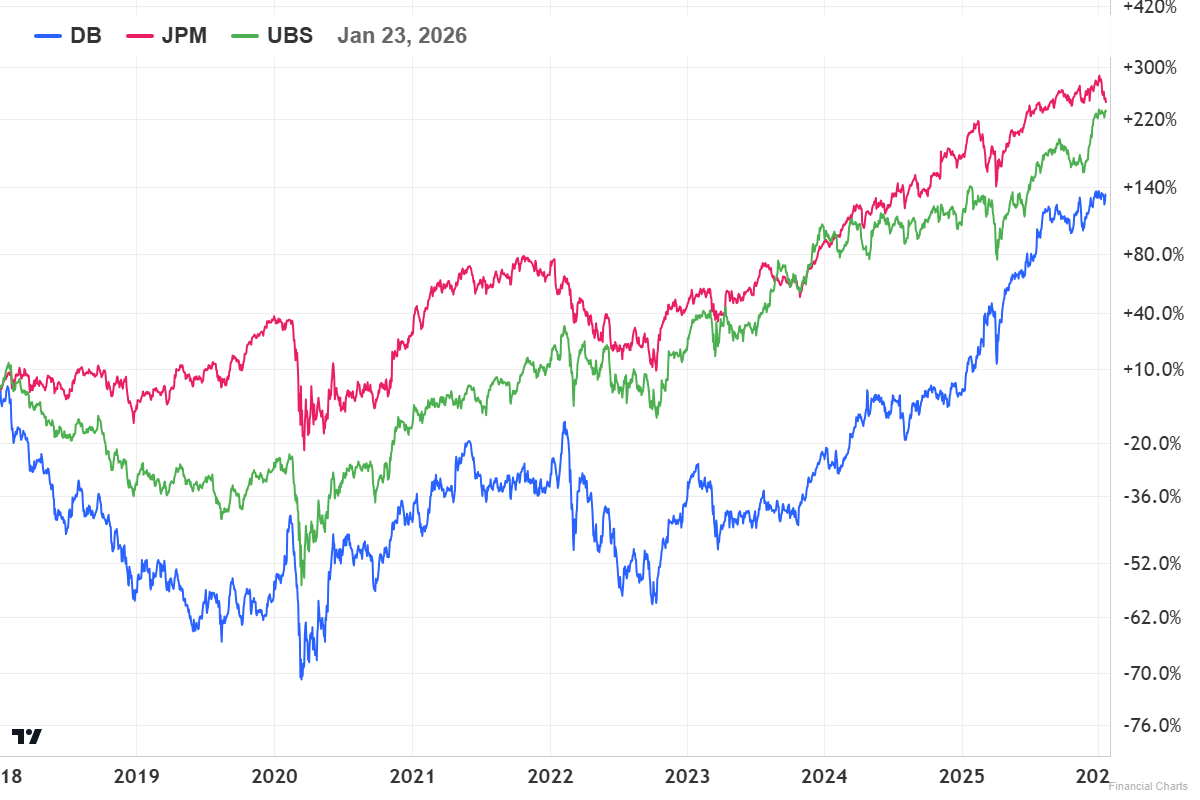
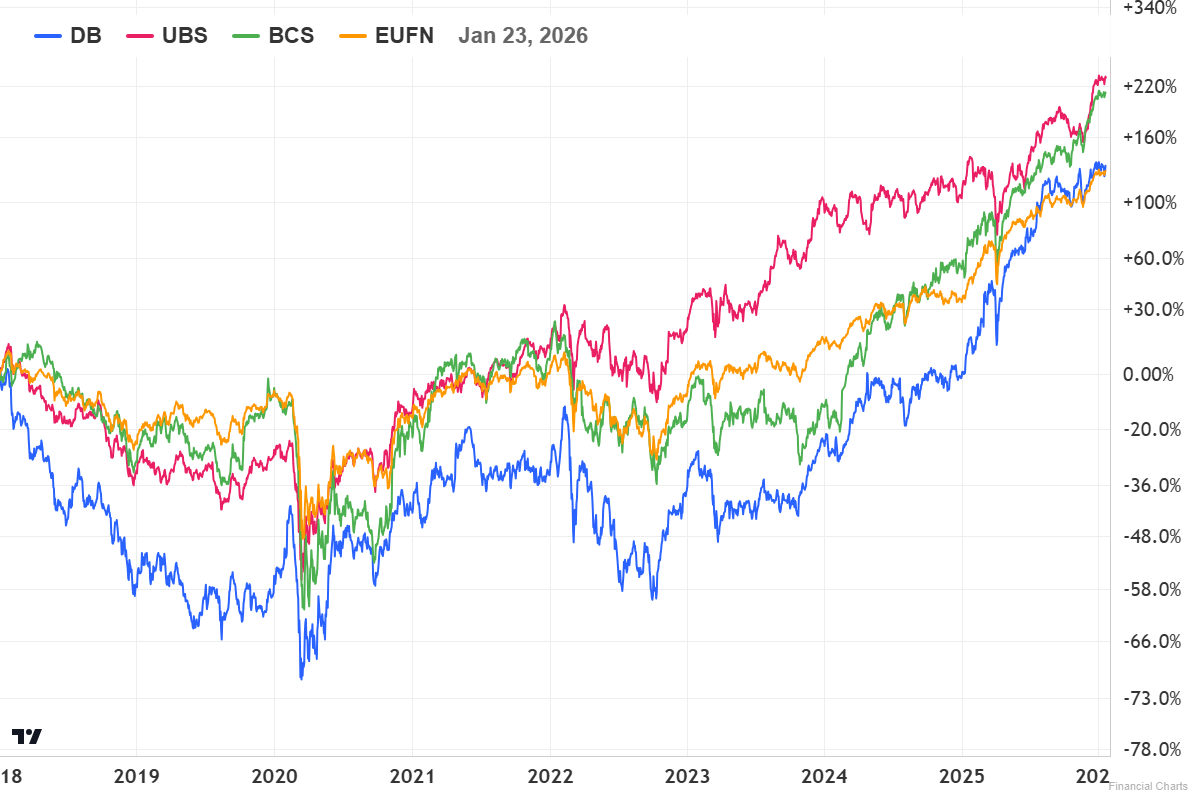
Add EUFN benchmark to all European bank charts
- Added EUFN (Europe Financials ETF) to database
- Updated Note structures.md with region-specific benchmark guidance
- Regenerated all European bank charts with EUFN benchmark
- Each bank now has its own chart (no reuse)

Results show UK banks mostly outperforming EUFN:
- UBS +220% (best)
- NatWest +260%
- Barclays +185%
- HSBC +125%
- DB, Lloyds tracking benchmark (~65-100%)

diff --git a/investing/Meta/Note structures.md b/investing/Meta/Note structures.md
@@ -143,12 +143,15 @@ Example for Barclays: `BCS, HSBC, LYG, NWG, XLF`
 
 | Actor type | Sector benchmark |
 |------------|------------------|
-| Banks | XLF (financials) or KBE (banks) |
-| Semiconductors | SMH or SOX |
-| Fintech | ARKF or IPAY |
+| US banks | KBE (banks) or XLF (financials) |
+| European banks | EUFN (Europe financials) |
+| US semiconductors | SMH or SOX |
+| European semiconductors | Add SMH to database |
+| US fintech | ARKF or IPAY |
 | China tech | KWEB |
-| Retail | XRT |
-| Energy | XLE |
+| US retail | XRT |
+| US energy | XLE |
+| LatAm | Find regional ETF or use US sector peer |
 
 The benchmark shows sector context; the peers show relative positioning within it.
 

diff --git a/investing/Actors/UBS.md b/investing/Actors/UBS.md
@@ -23,10 +23,10 @@ aliases: [UBS Group, UBS AG]
 
 World's largest private bank — manages wealth for ~half of world's billionaires.
 
-![[deutsche-bank-vs-peers.png]]
-*European banks (UBS, DB, Barclays) flat since 2018 while JPM +150%. Negative rates, legacy costs, slower growth. Credit Suisse acquisition (2023) hasn't moved the needle yet.*
+![[ubs-vs-peers.png]]
+*UBS +220% since 2018 — best European bank performer, well ahead of EUFN benchmark (+100%). Credit Suisse acquisition (2023) accretive. Barclays +160%, Deutsche Bank tracking benchmark.*
 
-*vs [[JPMorgan]] · [[Deutsche Bank]] · [[Barclays]]*
+*vs [[Deutsche Bank]] · [[Barclays]] · EUFN (benchmark)*
 
 ---
 

diff --git a/investing/Actors/HSBC.md b/investing/Actors/HSBC.md
@@ -23,9 +23,9 @@ aliases: [HSBC Holdings, Hongkong and Shanghai Banking Corporation]
 UK's #1 bank by assets. One of world's largest banking organizations.
 
 ![[hsbc-vs-peers.png]]
-*HSBC +125% since 2018 — middle of UK pack (trails Barclays +185%), beats Asia peer Standard Chartered +45%. All UK banks trail JPM +260%. Asia pivot hasn't yet differentiated returns.*
+*HSBC +125% since 2018 — outperforming EUFN benchmark (+65%) and Asia peer Standard Chartered (+45%), but trailing Barclays (+185%). Asia pivot showing in StanChart gap.*
 
-*vs [[JPMorgan]] · [[Barclays]] · [[Standard Chartered]]*
+*vs [[Barclays]] · [[Standard Chartered]] · EUFN (benchmark)*
 
 ---
 

diff --git a/investing/Actors/Lloyds.md b/investing/Actors/Lloyds.md
@@ -27,9 +27,9 @@ aliases: [Lloyds Banking Group, LYG, LLOY]
 UK's largest retail bank. Processes 30% of all UK payments.
 
 ![[lloyds-vs-peers.png]]
-*Lloyds +65% since 2018 — worst UK bank performer. NatWest +260% leads, Barclays +185%, HSBC +125%. Motor finance exposure and pure-domestic focus weighing on returns.*
+*Lloyds +65% since 2018 — merely tracking EUFN benchmark. All UK peers outperforming: NatWest +260%, Barclays +185%, HSBC +125%. Motor finance and pure-domestic focus dragging.*
 
-*vs [[HSBC]] · [[Barclays]] · [[NatWest]]*
+*vs [[HSBC]] · [[Barclays]] · [[NatWest]] · EUFN (benchmark)*
 
 ---
 

diff --git a/investing/Actors/Barclays.md b/investing/Actors/Barclays.md
@@ -20,9 +20,9 @@ aliases: [BCS, Barclays PLC]
 | Ticker | **BCS** (NYSE), BARC (LSE) |
 
 ![[barclays-vs-peers.png]]
-*Barclays +225% since 2018 — outperforming UK peers (HSBC +105%, Lloyds +65%) though still trailing JPM +300%. IB strength translating to relative outperformance vs domestic banks.*
+*Barclays +185% since 2018 — outperforming EUFN benchmark (+65%) and most UK peers. NatWest leads (+260%), HSBC +125%, Lloyds lags at benchmark level. IB strength driving outperformance.*
 
-*vs [[HSBC]] · [[Lloyds]] · [[JPMorgan]]*
+*vs [[HSBC]] · [[Lloyds]] · [[NatWest]] · EUFN (benchmark)*
 
 ---
 

diff --git a/investing/Actors/Deutsche Bank.md b/investing/Actors/Deutsche Bank.md
@@ -23,9 +23,9 @@ aliases: [DB]
 | Ticker | **DB** (NYSE), DBK (Frankfurt) |
 
 ![[deutsche-bank-vs-peers.png]]
-*Massive underperformance vs US peers — JPM +150% since 2018 while DB flat. UBS and Barclays similarly weak. European banks struggled with negative rates, legacy costs, and slower growth.*
+*Deutsche Bank tracking EUFN benchmark (+65%) since 2018. UBS similar. Barclays outperforming at +185%. Sewing restructuring keeping pace with sector but not breaking out.*
 
-*vs [[JPMorgan]] · [[UBS]] · [[Barclays|BCS]]*
+*vs [[UBS]] · [[Barclays]] · EUFN (benchmark)*
 
 ---
 
